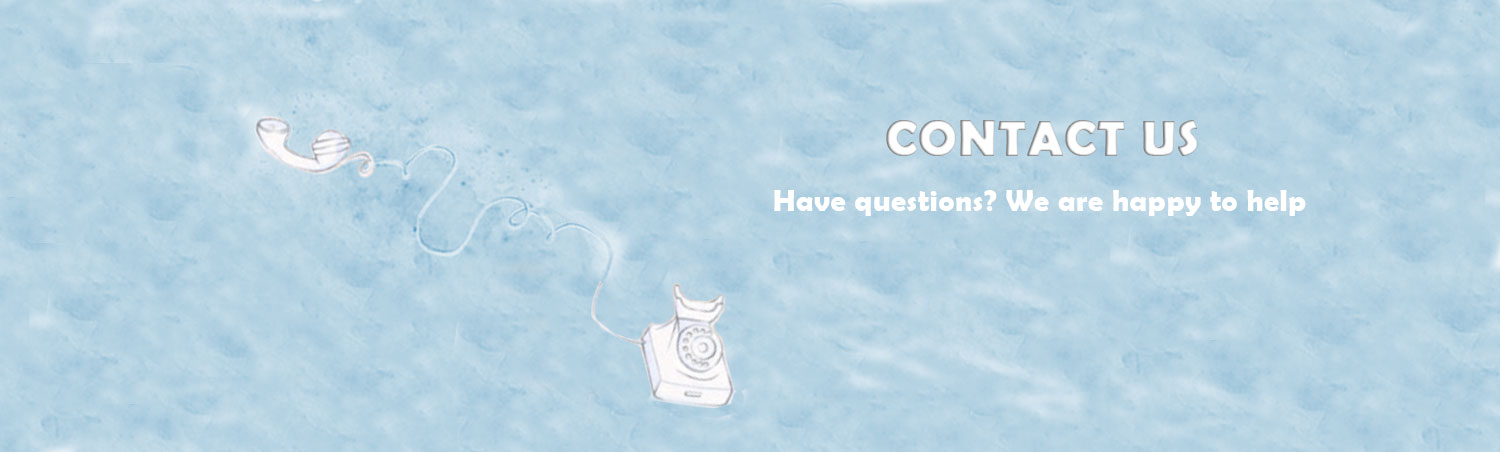
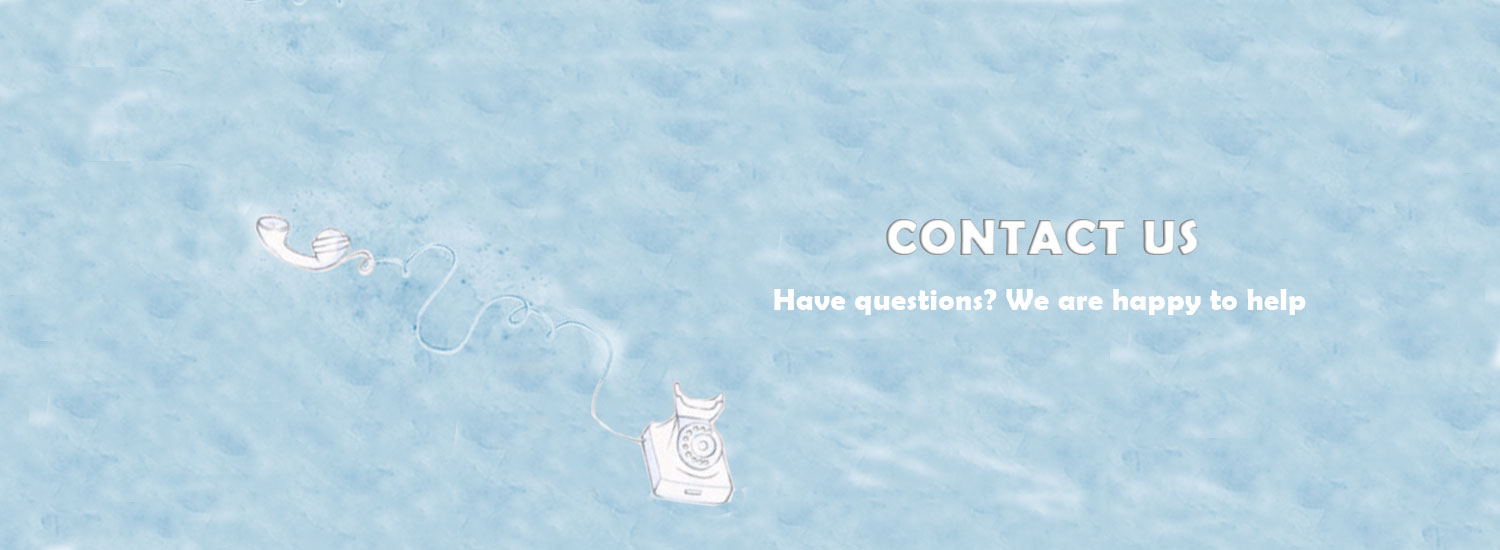
style-main

diff --git a/assets/css/style-main.css b/assets/css/style-main.css
@@ -1579,7 +1579,7 @@ label.error{font-size: 11px; color: #ff0000 !important; font-weight:normal;}
 #selmonth.error{ border-bottom: 1px solid red !important;}
 #selyear.error{ border-bottom: 1px solid red !important;}
 #selgen.error{ border-bottom: 1px solid red !important;}
-.about-content{width: 80% !important;line-height: 35px !important;text-align: justify;}
+.about-content{width: 80% !important;line-height: 35px !important;}
 select:focus{ outline: none; }
 .gender.valid{color:#848484 !important;}
 
@@ -1662,7 +1662,7 @@ background-color: #FFFFFF !important;
 }
 
 .contact header .logo a{text-shadow: 2px 2px #cbcbcb;}
-.contact header{border-bottom:1px solid #d9d9d9; background:rgba(255,255,255,0.4) !important;}
+.contact header{border-bottom:1px solid #d9d9d9; background-color:rgba(255,255,255,0.4) !important;}
 .contact .inner-form{float:left; margin:0 40px;}
 .contact-add{border:1px solid #c7c7c7; width:560px; float:right; margin:0 40px; border-radius:4px;}
 .con-address td{padding:15px; vertical-align:middle; color:#848484;}

diff --git a/assets/css/style.css b/assets/css/style.css
@@ -1991,7 +1991,8 @@ body.reg-form footer{background:#fff !important;}
 #fre-popup .por_content ul li{padding: 11px 10px;}
 .blog_header .logo h3{display: inline-block;}
 
-
+.contact header .btn2{border:1px solid #8ab1c5; color:#8ab1c5;}
+.contact header .btn3{border:1px solid #8ab1c5; color:#8ab1c5;}
 
 
 
@@ -2226,6 +2227,7 @@ body.reg-form footer{background:#fff !important;}
 	.no-login .form-group{margin-bottom:10px;}
 	.no-login .sign_in.pt10{padding-top:0;}
 	.alert.alert-success{margin-top:20px; width:100%;}
+	.outer-page header{position:relative; background:url('../img/mob-about-bg.jpg');}
 }
 
 @media screen and (max-width: 640px) {

diff --git a/application/front/views/contact/contact_us.php b/application/front/views/contact/contact_us.php
@@ -36,7 +36,7 @@
         <link rel="stylesheet" type="text/css" href="<?php echo base_url('assets/css/style.css?ver='.time()); ?>">
        
     </head>
-    <body class="contact">
+    <body class="contact outer-page">
         <div class="main-inner">
             <?php echo $login_header; ?>
 			<div class="contact-banner">
